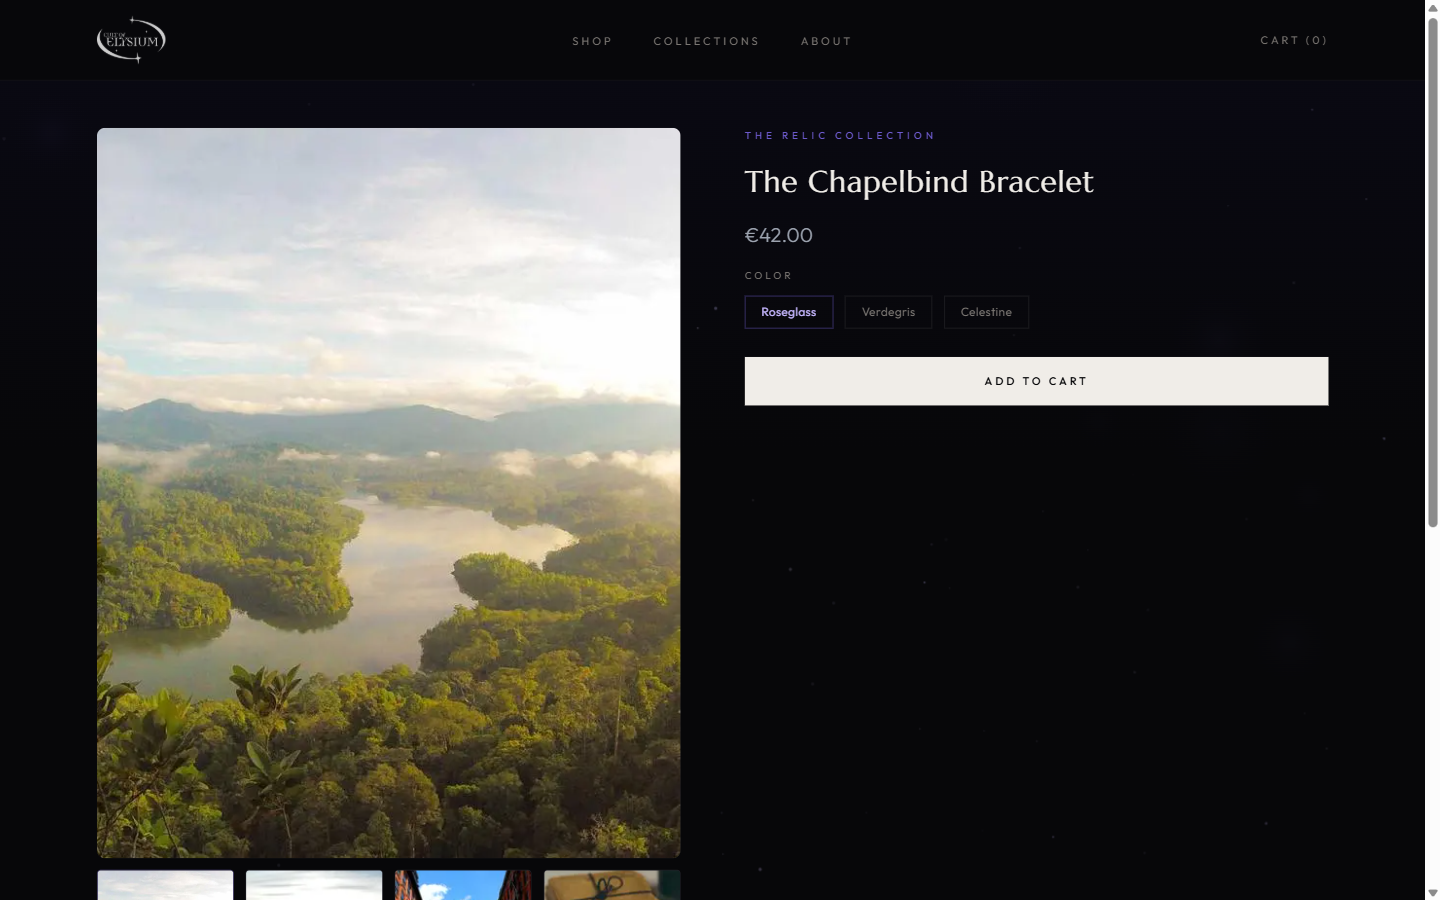
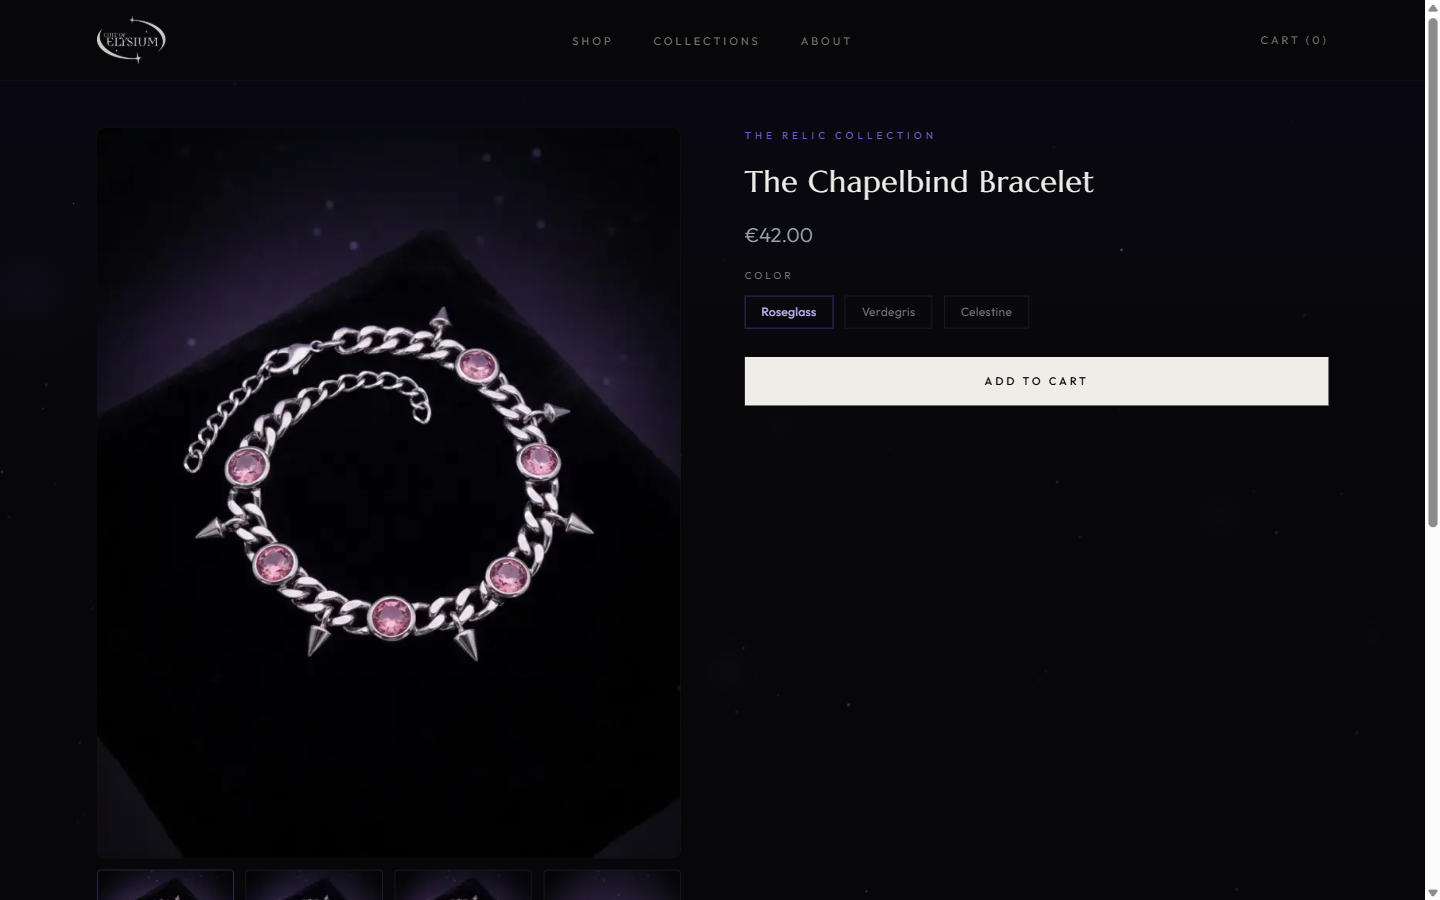
feat: Gemini-generated jewelry photos for the demo catalogue
Replace random picsum placeholders with product photos generated by
scripts/generate-product-images.mjs (gemini-3-pro-image). Variants and
close-ups use the main shot as a reference so each product stays
consistent. Refresh README screenshots.

diff --git a/lib/shopify/mock-data.ts b/lib/shopify/mock-data.ts
@@ -1,10 +1,11 @@
 import type { Product, Collection } from './types'
 
+// Product photos generated with scripts/generate-product-images.mjs
 const img = (id: number) => ({
-  url: `https://picsum.photos/seed/coe${id}/600/800`,
+  url: `/images/products/coe-${id}.webp`,
   altText: null,
-  width: 600,
-  height: 800,
+  width: 900,
+  height: 1200,
 })
 
 const money = (amount: string) => ({ amount, currencyCode: 'EUR' })

diff --git a/next.config.ts b/next.config.ts
@@ -7,10 +7,6 @@ const nextConfig: NextConfig = {
         protocol: 'https',
         hostname: 'cdn.shopify.com',
       },
-      {
-        protocol: 'https',
-        hostname: 'picsum.photos',
-      },
     ],
   },
 }

diff --git a/README.md b/README.md
@@ -16,6 +16,7 @@ A headless e-commerce storefront for a gothic jewelry brand, built with **Next.j
 - **Server-side cart:** cart mutations run as Server Actions, so the Storefront token never reaches the browser. The cart id lives in an `httpOnly` cookie, so the cart survives reloads and new tabs. If the stored cart expired or was checked out, a new one is created automatically.
 - **Demo mode:** without Shopify credentials, the whole store (including the cart) runs on built-in mock data. You can clone and run it, or deploy it, with zero configuration.
 - **Caching and revalidation:** catalog pages use ISR (`revalidate = 300`) and tag their fetches (`products`, `collections`). A Shopify webhook hits `/api/revalidate` to refresh them instantly, after verifying Shopify's HMAC-SHA256 signature with a constant-time comparison.
+- **Generated product photography:** the demo catalogue's photos were generated with Gemini (`gemini-3-pro-image`) by [`scripts/generate-product-images.mjs`](scripts/generate-product-images.mjs). Colour variants and close-ups pass the main shot back as a reference image so each product's photos match.
 - **Custom visuals:** the homepage hero is a hand-written `<canvas>` animation (painted nebula, drifting orbs, twinkling stars), with Framer Motion for page and cart-drawer transitions.
 
 ## Tech stack
@@ -79,6 +80,7 @@ To get instant catalog updates, create Shopify webhooks for product and collecti
 | `npm run build` | Production build |
 | `npm run start` | Serve the production build |
 | `npm run lint` | ESLint |
+| `node scripts/generate-product-images.mjs` | Regenerate demo product photos (needs `GEMINI_API_KEY` in `.env.local`) |
 
 ## Deploying
 
